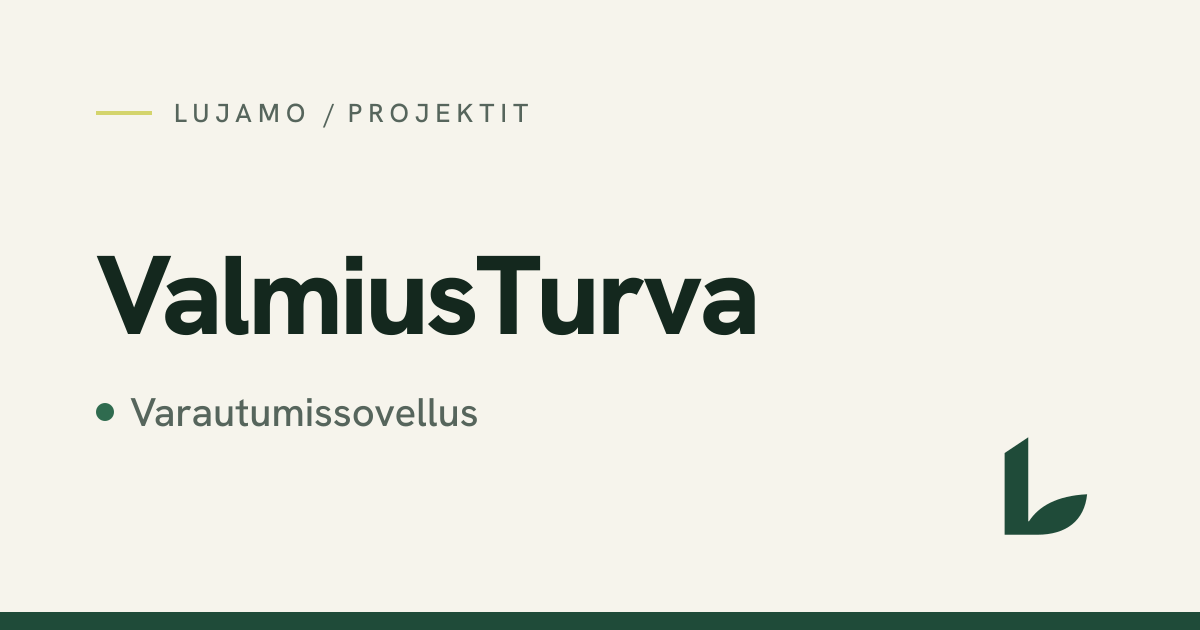
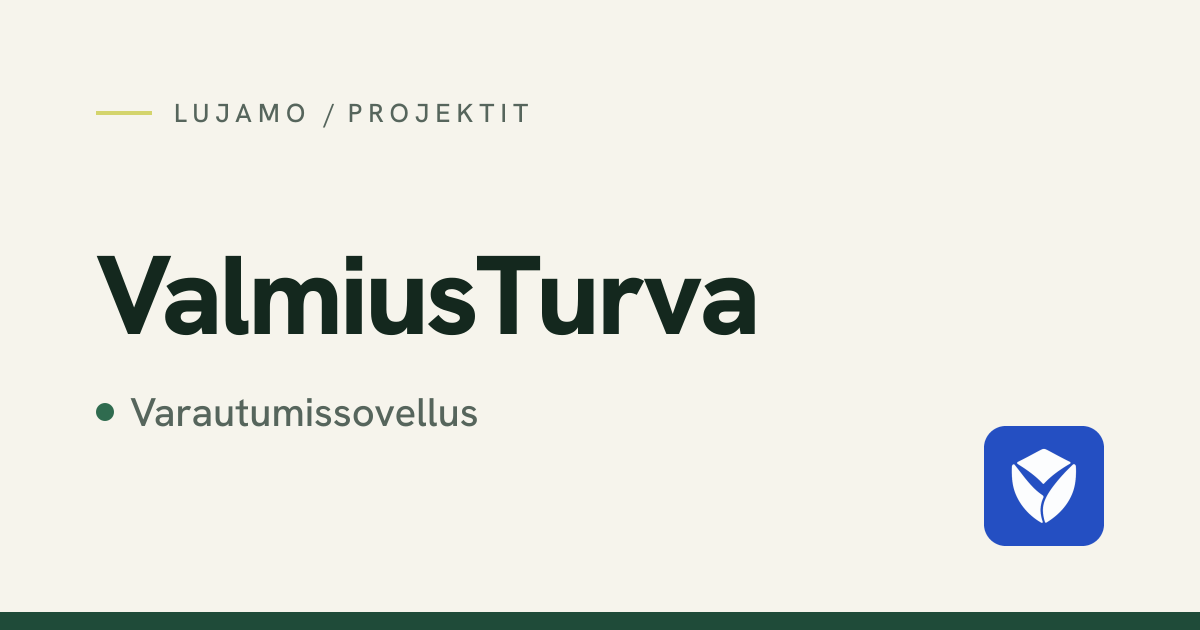
Add Lujamo illustration, real ValmiusTurva assets and business details

Changed region(s): [[0.8017, 0.6635, 0.925, 0.8746]]

diff --git a/src/config/site.ts b/src/config/site.ts
@@ -1,28 +1,26 @@
 /**
  * Company details shown in the footer, contact page and privacy policy.
  *
- * TODO (owner): every value marked PLACEHOLDER must be confirmed before launch.
- * Placeholders use the reserved .example domain and zeroed IDs on purpose so
- * they can never be mistaken for real details.
+ * Lujamo is the public brand; the business operates under the proprietor's name.
  */
 export const company = {
   name: 'Lujamo',
-  legalName: 'Lujamo', // PLACEHOLDER – official registered name (Oy / Tmi / …)?
-  businessId: '0000000-0', // PLACEHOLDER – Y-tunnus
-  city: 'Suomi', // PLACEHOLDER – city / postal address
-  email: 'info@lujamo.example', // PLACEHOLDER – shared contact address
-  phone: '', // PLACEHOLDER – leave empty to hide
+  legalName: 'Tiia Toikonniemi',
+  businessId: '3657332-9',
+  city: '', // Add a locality/address when supplied by the owner.
+  email: 'Tiia.toikonniemi@gmail.com',
+  phone: '040 801 0878',
+  phoneHref: '+358408010878',
 };
 
 /**
- * Front page hero image. The default is a drawn illustration
- * (scripts/make-hero-art.mjs). To use a photo: put it in public/images/,
- * e.g. hero.jpg (about 1600×1200, under 250 KB), and point `src` at it.
+ * Generated editorial illustration about people-centred app development.
+ * Source and generation prompt: docs/visual-assets.md.
  */
 export const heroImage = {
-  src: '/images/lujamo-hero.svg',
-  width: 800,
-  height: 600,
+  src: '/images/lujamo-app-development.webp',
+  width: 1200,
+  height: 900,
 };
 
 /**

diff --git a/src/content.config.ts b/src/content.config.ts
@@ -50,8 +50,9 @@ const units = defineCollection({
     summary: z.string(), // front page text
     highlights: z.array(z.string()).optional(), // front page short list (services)
     facts: z.array(z.string()).optional(), // key facts (projects)
-    // illustration next to the page intro: 'app' = generic app mockup, 'turva-map' = ValmiusTurva's map screen
-    visual: z.enum(['app', 'turva-map']).optional(),
+    logo: z.string().optional(),
+    // 'app' is a generic illustration; 'valmiusturva' shows the actual app.
+    visual: z.enum(['app', 'valmiusturva']).optional(),
     intro: z.object({ heading: z.string(), lead: z.string(), body: z.string().optional() }),
     blocks: z.array(block).default([]),
   }),

diff --git a/README.md b/README.md
@@ -38,12 +38,12 @@ BASE_PATH=/lujamo
 
 Search the project for `TODO` and `PLACEHOLDER`. The main ones:
 
-1. **Company details**: `src/config/site.ts`. The official name, Y-tunnus, city/address, email and phone. The placeholders use a `.example` address and `0000000-0` on purpose.
-2. **Contact form**: get a free access key from [Web3Forms](https://web3forms.com) for the owner's email address and set `form.accessKey` in `src/config/site.ts`. Until then the form validates input but tells visitors to email instead of sending.
+1. **Company address/locality**: still to be supplied. The proprietor's name, business ID, email and phone are set in `src/config/site.ts`.
+2. **Optional contact form**: get an access key from [Web3Forms](https://web3forms.com) for the owner's email address and set `form.accessKey` in `src/config/site.ts`. Until then the contact page shows a working email link and phone number instead of a form that cannot send. Review the privacy policy before enabling a new processor.
 3. **Luja Fight description**: `src/content/units/*/fight.yaml`.
 4. **Values**: confirm the value descriptions. The company introduction, story and service descriptions have been updated from the supplied company copy.
-5. **ValmiusTurva**: add real screenshots when available (the phone on the page is a drawn illustration and is labelled as one). The product page describes its aims, offline use, development and collaboration opportunities; the existing `/projects/turva/` URL is retained.
-6. **Hero image**: the front page shows a drawn illustration made in the spirit of the owner's reference photo. To use a real photo, put it in `public/images/` (about 1600×1200, under 250 KB) and point `heroImage` in `src/config/site.ts` at it. The About page reuses the same image.
+5. **ValmiusTurva**: the site uses the app's real Finnish start-screen capture and current icon. The public URL is `/projects/valmiusturva/`; the old `/projects/turva/` paths redirect in all languages. Internal content IDs remain stable for contact topics and existing social-image filenames.
+6. **Hero image**: a generated editorial illustration about collaborative app development appears on the home and About pages. Asset provenance and the generation prompt are in `docs/visual-assets.md`.
 7. **Privacy policy**: `src/content/pages/*/privacy.md` is a draft for legal review. The Finnish version is authoritative.
 
 ## Editing content
@@ -82,7 +82,7 @@ It then appears on the Projects page, as a reference on the front page and the s
 
 **A service** (something Lujamo sells) works the same way with `kind: service` and a `navLabel`: it appears in the main navigation. The front page's green band shows the first service.
 
-A unit can show an illustration next to its intro with `visual: app` (generic app mockup) or `visual: turva-map`.
+A unit can show an illustration next to its intro with `visual: app` (generic app mockup) or `visual: valmiusturva` (actual app screenshot), and an optional `logo` image path.
 
 ## URLs and languages
 
@@ -98,7 +98,7 @@ The `.github/workflows/deploy-pages.yml` workflow validates translations, builds
 
 In the repository's **Settings → Pages**, the publishing source is **GitHub Actions**. The workflow obtains the origin and repository base path from `actions/configure-pages`, so asset links, canonical URLs, language links and the contact-form redirect match the deployment. No separate deployment token is required.
 
-Local `.env.production` is ignored by Git and is not uploaded. Company and form placeholders in `src/config/site.ts` still need real values before accepting enquiries.
+Local `.env.production` is ignored by Git and is not uploaded. Email and phone contact work directly; the optional form remains disabled until its access key is configured.
 
 ### Optional: Neocities
 

diff --git a/docs/visual-assets.md b/docs/visual-assets.md
@@ -1,0 +1,20 @@
+# Website visual assets
+
+## Lujamo editorial illustration
+
+- Website file: `public/images/lujamo-app-development.webp` (1200 × 900).
+- Created with the built-in ImageGen tool on 2026-10-24. The illustration is not a photograph of the proprietor or their premises.
+- Generated PNG: `C:/Users/Admin/.codex/generated_images/01a16f06-0eae-74a3-991e-6a22666e5ca2/exec-de7b0c6c-6ad5-4f82-829b-8c4978393295.png`.
+- The selected image was resized and encoded as WebP for website delivery; the composition was not edited.
+
+Final generation prompt:
+
+> Use case: illustration-story. Asset type: a landscape 4:3 editorial brand illustration for the homepage of Lujamo, a small Finnish family business creating useful mobile apps, based on real human needs. Primary request: replace a generic tree-on-rock hero with a warm, credible image about thoughtful app development. Scene: a calm Nordic studio desk near a window looking onto a soft Finnish birch and pine landscape. Subject: a well-composed laptop and one smartphone, both displaying simple abstract app wireframe shapes without readable text, with an open paper sketchbook containing a few clear screen sketches, a pencil, and two human hands collaborating over the sketchbook (no faces or people portraits). Style: refined contemporary editorial illustration with softly rendered tactile forms, warm natural daylight and restrained detail, believable perspective, premium understated small-company personality. Palette: warm off-white paper, pale natural wood, deep forest green and muted moss yellow, subtle cool greens outdoors. Composition: cohesive landscape image, devices and hands clearly readable at small sizes, generous calm space around the subject; no text overlay, no logos, no branding, no watermark, no dramatic effects, no floating UI panels, no futuristic neon. This is a finished website brand illustration, not an RPG or TRELLIS asset reference.
+
+## ValmiusTurva
+
+These files were copied from the app project with the owner's permission. The app project was not modified or run.
+
+- `public/images/valmiusturva-logo.png`: copied from `C:/Projects/Apps/Valmiusturva/web/icons/icon-512.png`.
+- `public/images/valmiusturva-start.png`: copied from `C:/Projects/Apps/Valmiusturva/build/startup-review/fi-phone.png` (412 × 915), showing the real Finnish start screen. It is identified as a Finnish screenshot in every language version of the website.
+- The original files remain in the app project unchanged.

diff --git a/src/content/pages/fi/privacy.md b/src/content/pages/fi/privacy.md
@@ -1,30 +1,30 @@
 ---
 title: Tietosuojaseloste – Lujamo
-description: Miten Lujamo käsittelee verkkosivuston ja yhteydenottolomakkeen kautta saatuja tietoja.
+description: Miten Lujamo käsittelee yhteydenottojen yhteydessä saatuja tietoja.
 heading: Tietosuojaseloste
-updated: '2026-09-23'
+updated: '2026-10-24'
 review: Luonnos. Tarkistettava ennen julkaisua (omistaja / juristi).
 ---
 
-<!-- TODO: legal review. Fill in the registered company name, business ID and address. -->
+<!-- TODO: legal review and proprietor's address. -->
 
 ## Rekisterinpitäjä
 
-Lujamo, Y-tunnus ja osoite: katso sivun alalaita. Tietosuojaa koskevat kysymykset voi lähettää samaan sähköpostiosoitteeseen.
+Tiia Toikonniemi, yksityinen elinkeinonharjoittaja (Lujamo), Y-tunnus 3657332-9. Tietosuojaa koskevat kysymykset: [Tiia.toikonniemi@gmail.com](mailto:Tiia.toikonniemi@gmail.com), puh. 040 801 0878.
 
 ## Mitä tietoja käsittelemme
 
 Sivusto ei käytä evästeitä eikä kävijäseurantaa.
 
-Kun lähetät viestin yhteydenottolomakkeella, käsittelemme antamiasi tietoja: nimi, sähköpostiosoite, puhelinnumero (jos annat sen), viestin aihe ja sisältö.
+Kun otat yhteyttä sähköpostilla tai puhelimitse, käsittelemme yhteydenottoa varten antamiasi tietoja, kuten nimeä, yhteystietoja sekä viestin aihetta ja sisältöä.
 
 ## Miksi tietoja käsitellään
 
-Käytämme tietoja vain yhteydenottoosi vastaamiseen ja siihen liittyvään viestintään. Käsittelyn peruste on suostumuksesi, jonka annat lomakkeella, sekä oikeutettu etumme vastata meille lähetettyihin viesteihin.
+Käytämme tietoja vain yhteydenottoosi vastaamiseen ja siihen liittyvään viestintään. Käsittelyn oikeusperuste vahvistetaan tämän luonnoksen tarkistuksen yhteydessä.
 
 ## Kuka tietoja käsittelee
 
-Lomakkeen viestit välitetään sähköpostiimme Web3Forms-palvelun kautta. Sivusto on Neocities-palvelussa, joka voi tallentaa teknisiä lokitietoja, kuten IP-osoitteen, palvelun toimintaa ja turvallisuutta varten.
+Yhteydenottopainike avaa käyttäjän oman sähköpostisovelluksen. Viestit saapuvat Gmail-sähköpostiin. Sivusto on GitHub Pages -palvelussa. Palveluntarjoajien tietojenkäsittely ja mahdolliset tekniset lokitiedot tarkistetaan selosteen viimeistelyn yhteydessä.
 
 <!-- TODO: confirm processors, their locations and whether data leaves the EU/EEA. -->
 

diff --git a/src/content/pages/sv/privacy.md b/src/content/pages/sv/privacy.md
@@ -1,8 +1,8 @@
 ---
 title: Dataskyddsbeskrivning – Lujamo
-description: Hur Lujamo behandlar uppgifter som tas emot via webbplatsen och kontaktformuläret.
+description: Hur Lujamo behandlar uppgifter som tas emot när du kontaktar oss.
 heading: Dataskyddsbeskrivning
-updated: '2026-09-23'
+updated: '2026-10-24'
 review: Utkast. Ska granskas före publicering (ägare / jurist).
 ---
 
@@ -10,21 +10,21 @@ review: Utkast. Ska granskas före publicering (ägare / jurist).
 
 ## Personuppgiftsansvarig
 
-Lujamo. FO-nummer och adress: se längst ner på sidan. Frågor om dataskydd kan skickas till samma e-postadress.
+Tiia Toikonniemi, enskild näringsidkare (Lujamo), FO-nummer 3657332-9. Dataskyddsfrågor: [Tiia.toikonniemi@gmail.com](mailto:Tiia.toikonniemi@gmail.com), telefon +358 40 801 0878.
 
 ## Vilka uppgifter vi behandlar
 
 Webbplatsen använder inte kakor eller besöksstatistik.
 
-När du skickar ett meddelande via kontaktformuläret behandlar vi de uppgifter du lämnar: namn, e-postadress, telefonnummer (om du anger det), ämne och meddelande.
+När du kontaktar oss via e-post eller telefon behandlar vi de uppgifter du lämnar för kontakten, såsom namn, kontaktuppgifter, ämne och meddelande.
 
 ## Varför uppgifterna behandlas
 
-Vi använder uppgifterna bara för att svara på ditt meddelande och för kommunikation som hör till det. Grunden för behandlingen är ditt samtycke, som du ger i formuläret, och vårt berättigade intresse att svara på meddelanden som skickas till oss.
+Vi använder uppgifterna bara för att svara på ditt meddelande och för kommunikation som hör till det. Den rättsliga grunden fastställs när detta utkast granskas.
 
 ## Vem som behandlar uppgifterna
 
-Meddelanden från formuläret vidarebefordras till vår e-post via tjänsten Web3Forms. Webbplatsen finns hos Neocities, som kan spara tekniska loggdata, till exempel IP-adresser, för att driva och skydda sin tjänst.
+Kontaktknappen öppnar användarens eget e-postprogram. Meddelandena tas emot i Gmail. Webbplatsen finns hos GitHub Pages. Tjänsteleverantörernas behandling av uppgifter och eventuell teknisk loggning granskas när beskrivningen färdigställs.
 
 <!-- TODO: confirm processors, their locations and whether data leaves the EU/EEA. -->
 

diff --git a/src/content/pages/en/privacy.md b/src/content/pages/en/privacy.md
@@ -1,8 +1,8 @@
 ---
 title: Privacy policy – Lujamo
-description: How Lujamo handles information received through this website and its contact form.
+description: How Lujamo handles information received when you contact us.
 heading: Privacy policy
-updated: '2026-09-23'
+updated: '2026-10-24'
 review: Draft. To be reviewed before publication (owner / legal).
 ---
 
@@ -10,21 +10,21 @@ review: Draft. To be reviewed before publication (owner / legal).
 
 ## Controller
 
-Lujamo. Business ID and address: see the bottom of this page. Questions about privacy can be sent to the same email address.
+Tiia Toikonniemi, sole trader (Lujamo), Finnish Business ID 3657332-9. Privacy enquiries: [Tiia.toikonniemi@gmail.com](mailto:Tiia.toikonniemi@gmail.com), phone +358 40 801 0878.
 
 ## What data we process
 
 This website does not use cookies or visitor analytics.
 
-When you send a message through the contact form, we process the details you give: name, email address, phone number (if given), topic and message.
+When you contact us by email or phone, we process information you provide for the enquiry, such as your name, contact details, subject and message.
 
 ## Why we process it
 
-We use the data only to reply to your message and for related communication. The legal basis is your consent, given on the form, and our legitimate interest in replying to messages sent to us.
+We use the data only to reply to your message and for related communication. The legal basis will be confirmed when this draft is reviewed.
 
 ## Who processes it
 
-Form messages are forwarded to our email through the Web3Forms service. The website is hosted on Neocities, which may store technical log data such as IP addresses to run and secure its service.
+The contact button opens your own email application. Messages are received in Gmail. The website is hosted on GitHub Pages. Service providers' data processing and any technical logging will be reviewed when this policy is finalised.
 
 <!-- TODO: confirm processors, their locations and whether data leaves the EU/EEA. -->
 
